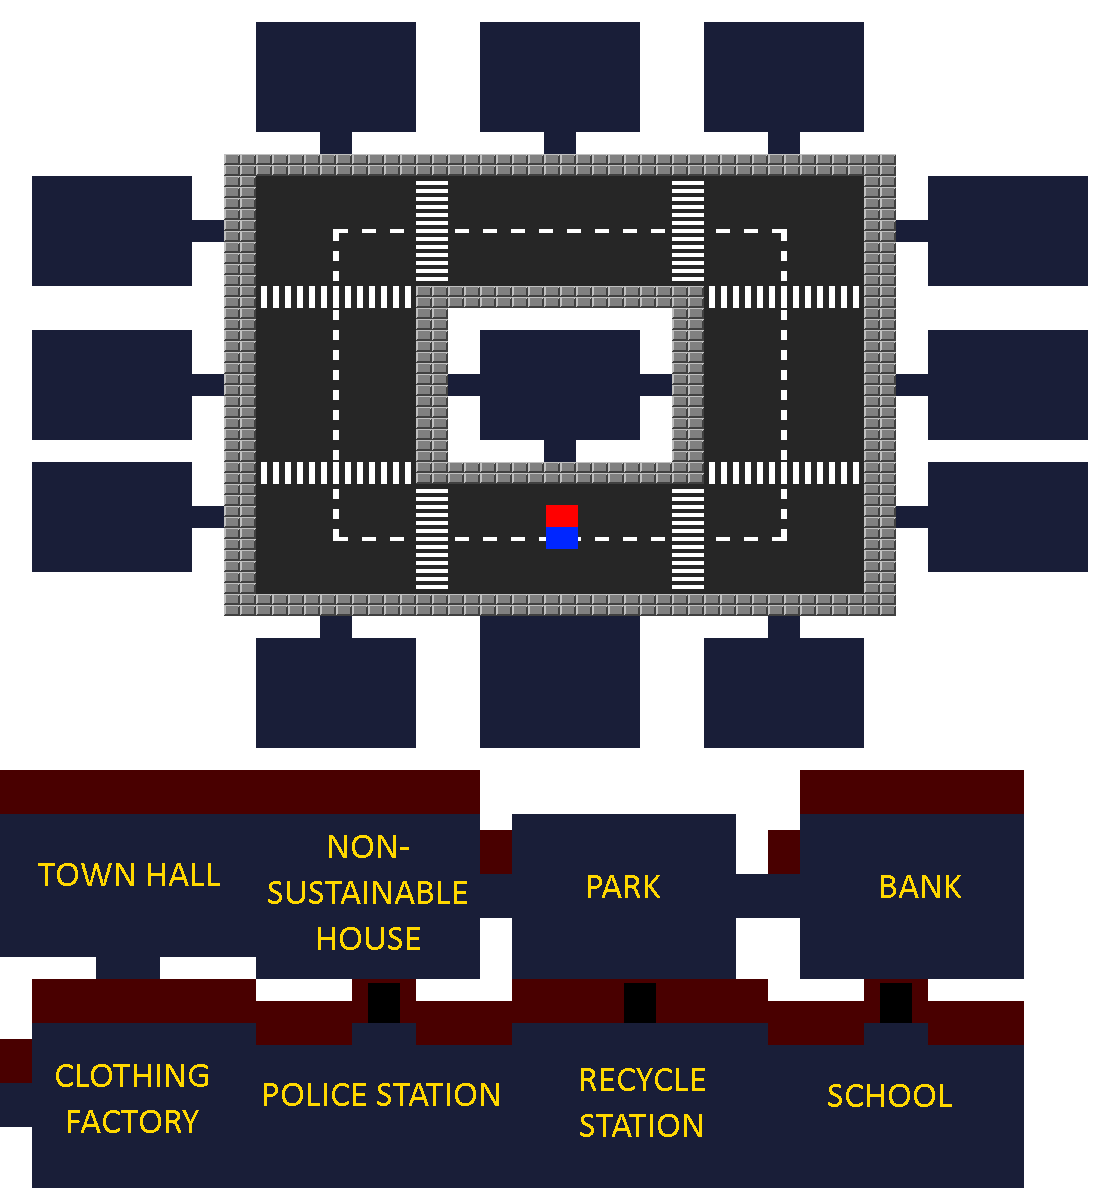
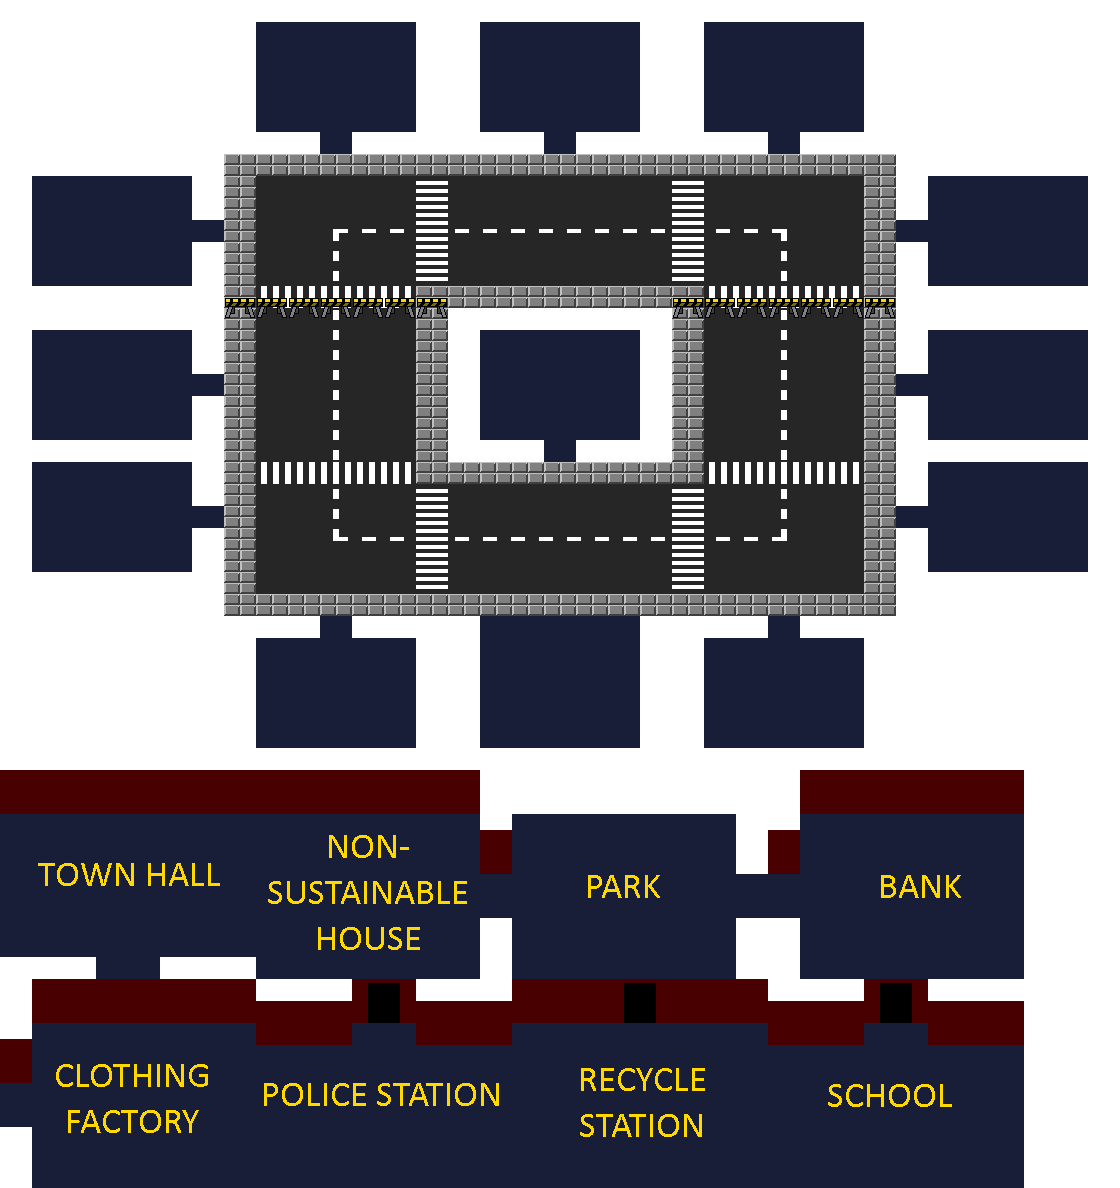
Døre virker helt nu. en barierer er tilføjet til streets.

diff --git a/Sustainia/src/main/java/com/mycompany/sustainia/Game.java b/Sustainia/src/main/java/com/mycompany/sustainia/Game.java
@@ -6,12 +6,16 @@ public class Game {
     Room placeHolder;
     
     Room streets = new Room("Streets", 560, 450,
-            new HitBox[]{new HitBox(0,0,10,10)},
+            new HitBox[]{
+                // Level Barrier
+                new HitBox(0,298,1120,20)},
             new Door(new HitBox(700,700,64,10), placeHolder)
     );
     
     Room townHall = new Room("Town Hall", 128, 194,
-            new HitBox[]{new HitBox(0,0,256,44), new HitBox(0,187,96,22), new HitBox(160,187,96,22), new HitBox(-10,44,10,143), new HitBox(256,44,10,143)},
+            new HitBox[]{
+                //Walls
+                new HitBox(0,0,256,44), new HitBox(0,187,96,22), new HitBox(160,187,96,22), new HitBox(-10,44,10,143), new HitBox(256,44,10,143)},
             new Door(new HitBox(96,209,64,10), streets)
     );
     
@@ -115,12 +119,14 @@ public class Game {
         return dy;
     }
     
+    
     public void collisionWithObjects(int x, int y){
         for (int i = 0; i < currentRoom.hitboxesInRoom.length; i++){
             currentRoom.hitboxesInRoom[i].collisionWithObject(x, y);
-            // her tjekkes der for collision med NPS'er ved at gikke på <hitbox>.triggerd
         }
     }
+    
+    
     public Room newRoom(int x, int y, Room room){
         currentRoom.door.doorFrame.collisionWithObject(x, y);
         System.out.println(currentRoom.door.doorFrame.checkIfTriggered());
@@ -137,7 +143,6 @@ public class Game {
     public int getSpawnPointX(int x, Room room){
         if (roomSwitch){
             x = -World.characterX +room.spawnPX*World.scale;
-            roomSwitch = false;
         } else {
             x = x;
         }
@@ -152,11 +157,6 @@ public class Game {
             y = y;
         }
         return y;
-    }
-    
-    
-    public boolean getRoomSwitch(){
-        return roomSwitch;
     }
     
     

diff --git a/Sustainia/src/main/java/com/mycompany/sustainia/App.java b/Sustainia/src/main/java/com/mycompany/sustainia/App.java
@@ -284,7 +284,7 @@ public class App extends Application {
     }
     private void drawRoom(Room currentRoom){
         World.gameX = game.getSpawnPointX(World.gameX, currentRoom);
-        World.gameY = game.getSpawnPointX(World.gameY, currentRoom);
+        World.gameY = game.getSpawnPointY(World.gameY, currentRoom);
         
         if (currentRoom.equals(game.streets)){
            roomX = 0;
